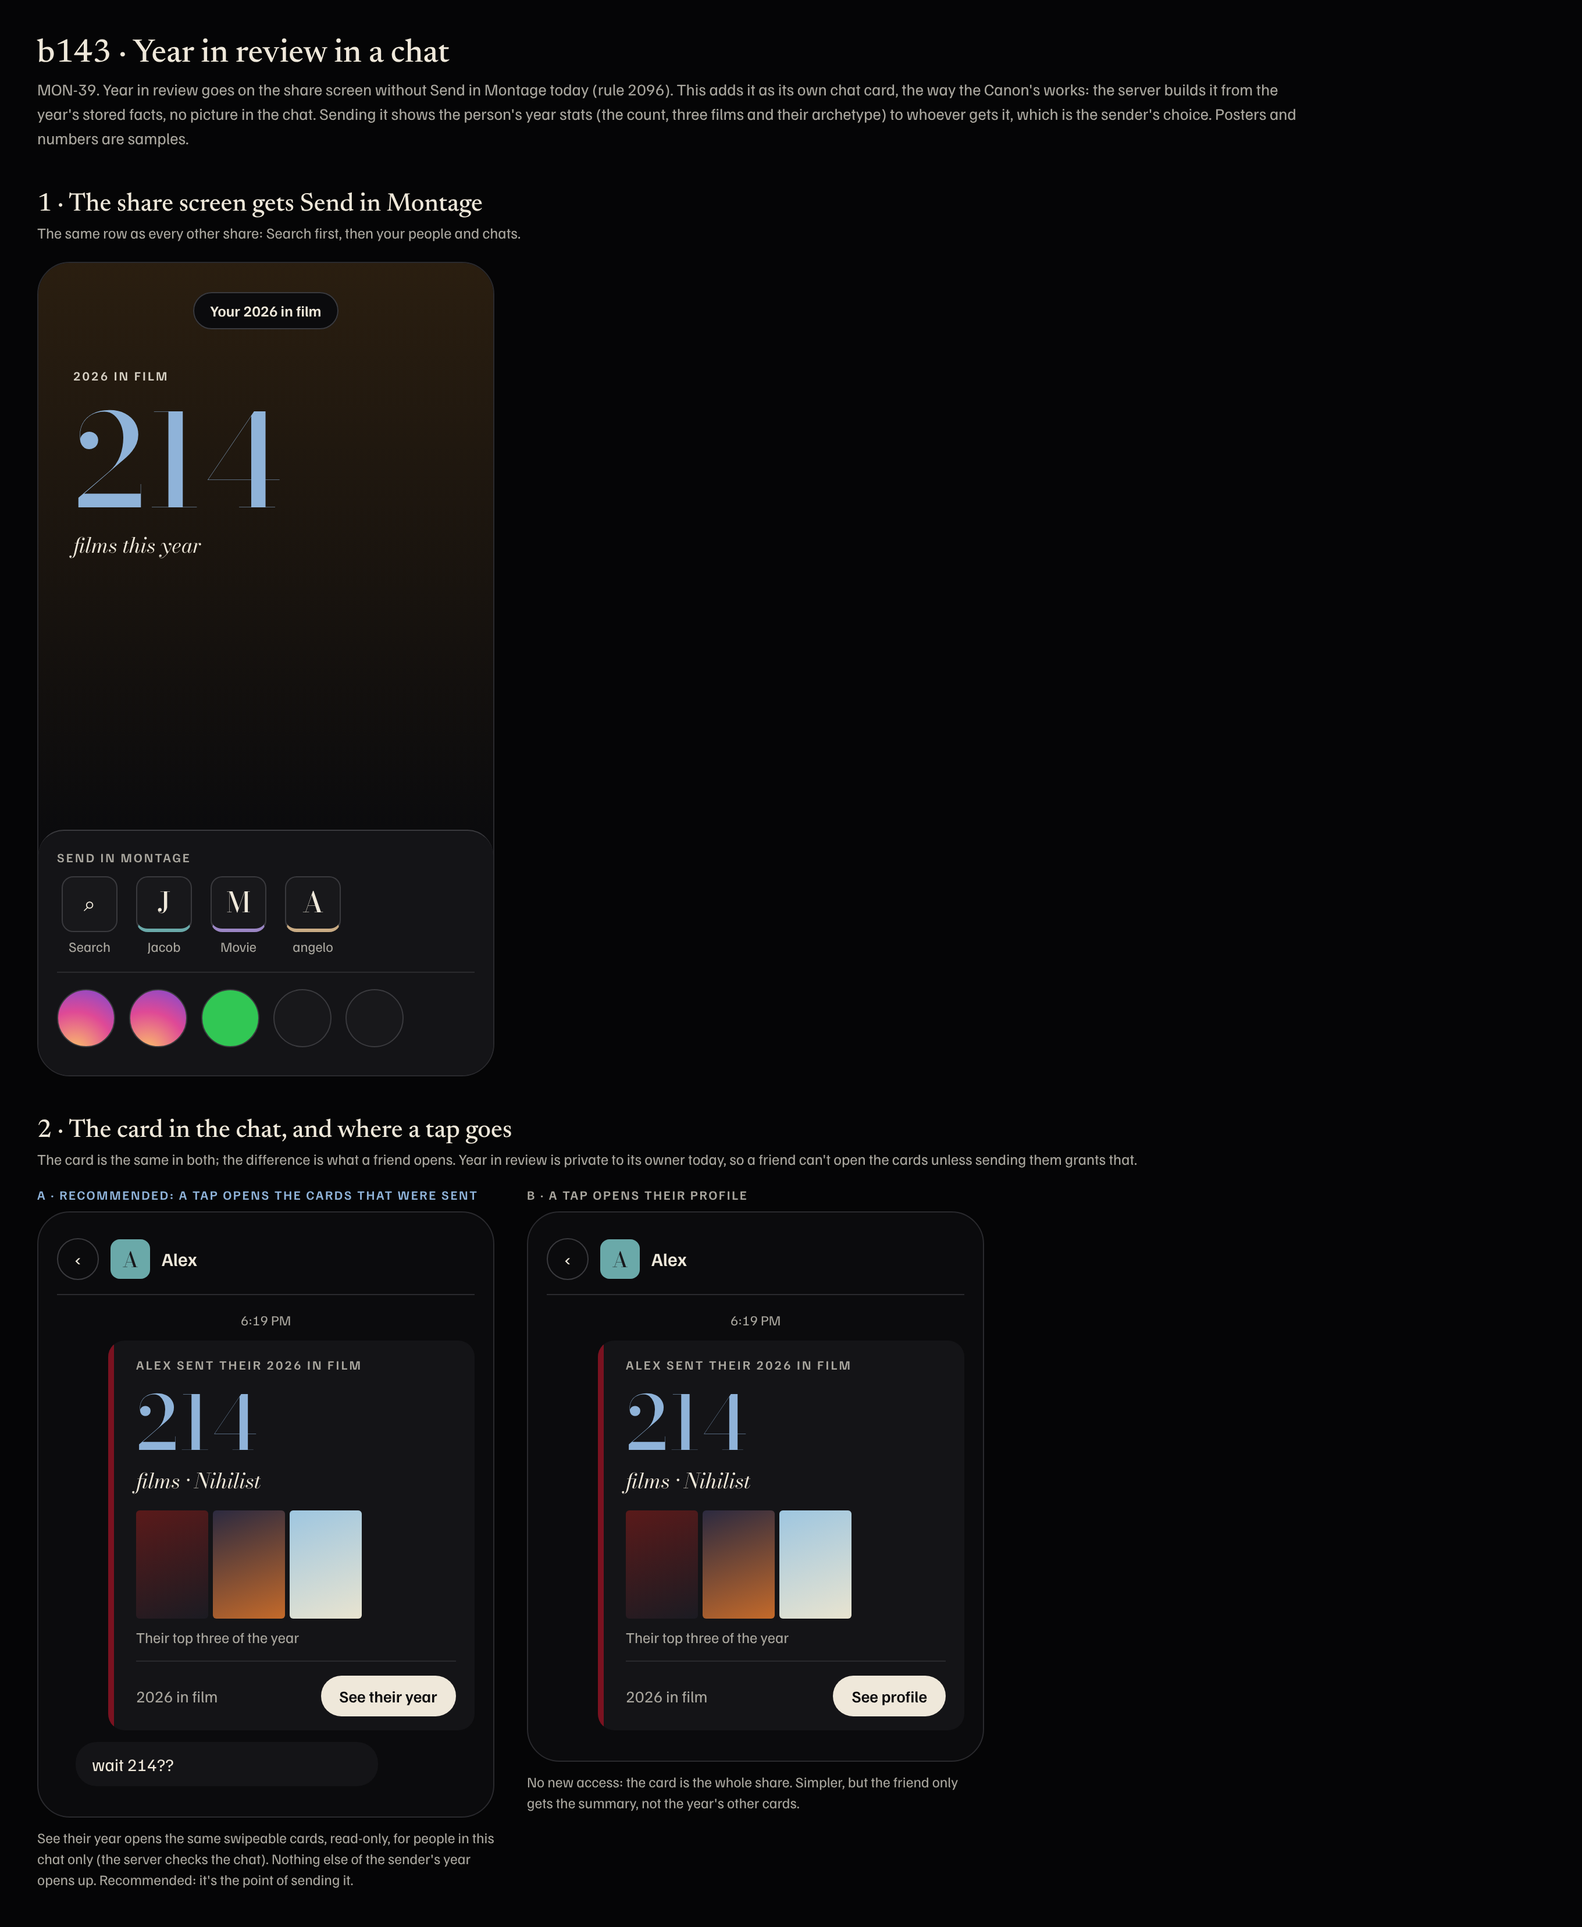
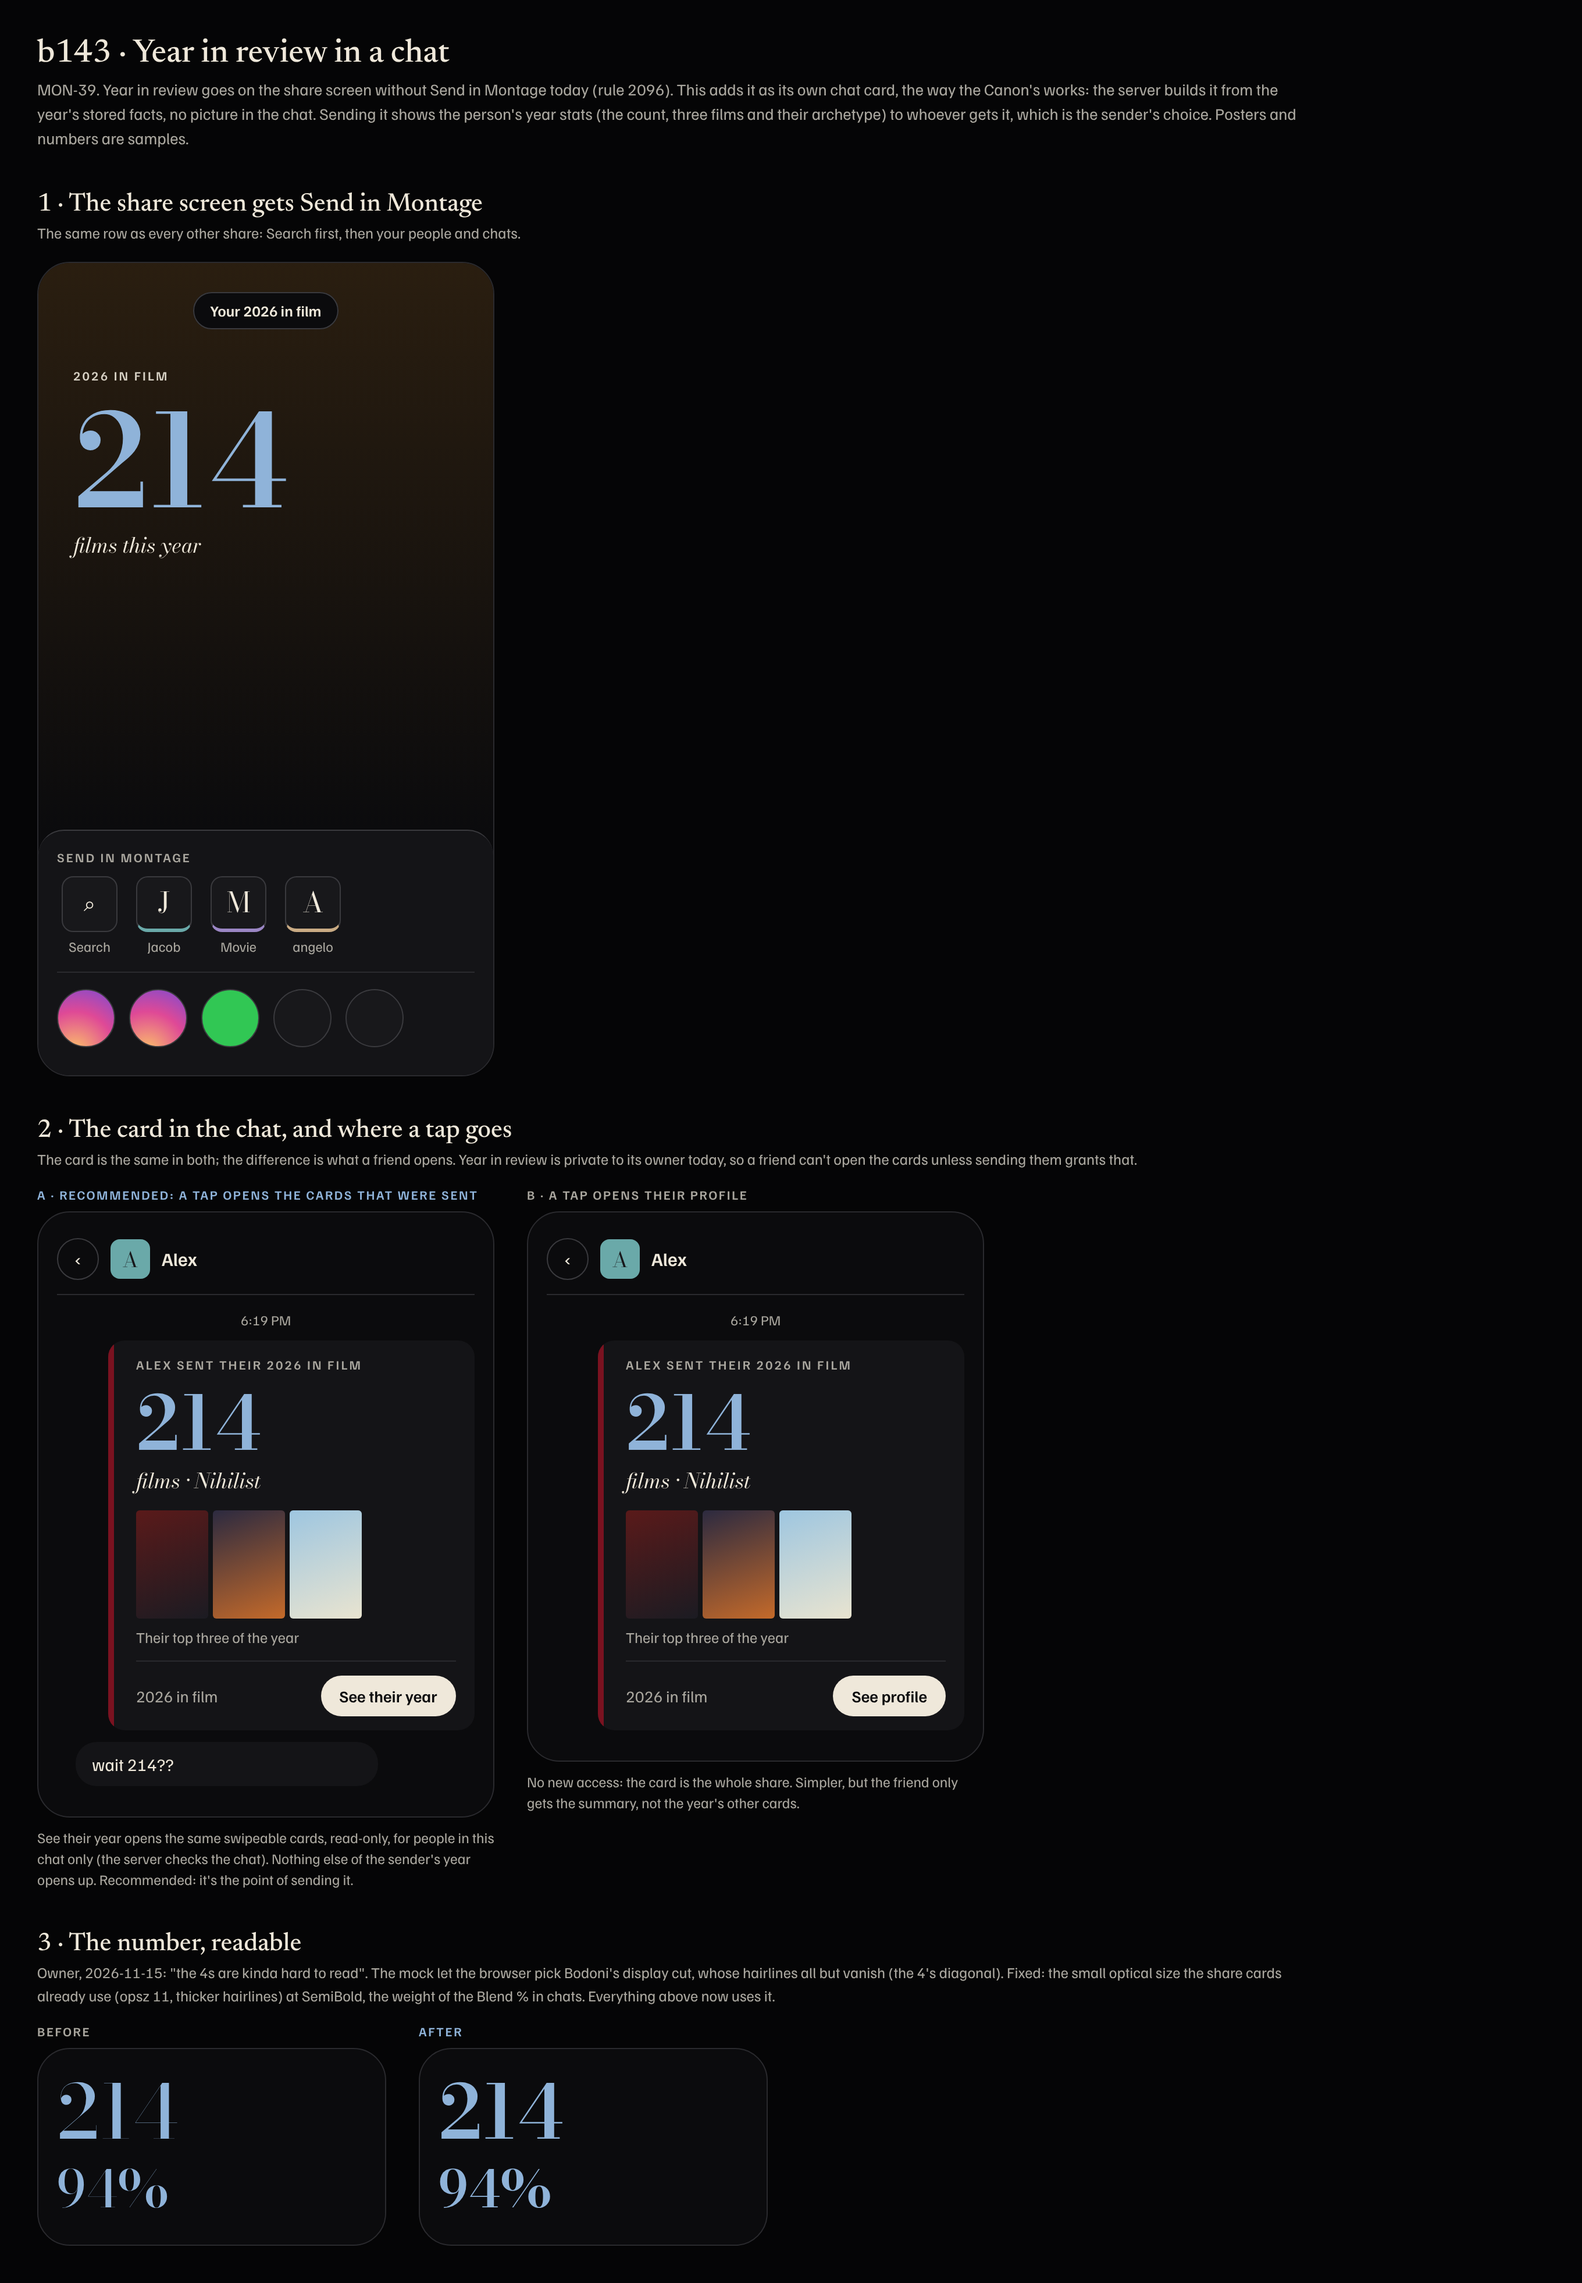
b143: the number in Bodoni's small optical size at SemiBold, readable 4s (owner) (mock)
Claude-Session: https://claude.ai/code/session_013EiGcTiAtiraHb8fMDXQqd

diff --git a/mockups/journeys/b143-year-chat-card.html b/mockups/journeys/b143-year-chat-card.html
@@ -1,6 +1,6 @@
 <!doctype html>
 <html lang="en"><head><meta charset="utf-8"><title>b143 year chat card</title>
-<link href="https://fonts.googleapis.com/css2?family=Newsreader:ital,opsz,wght@0,6..72,400;0,6..72,500;1,6..72,400&family=Familjen+Grotesk:wght@400;500;600&family=Bodoni+Moda:ital,opsz,wght@0,6..96,500;1,6..96,400&display=swap" rel="stylesheet">
+<link href="https://fonts.googleapis.com/css2?family=Newsreader:ital,opsz,wght@0,6..72,400;0,6..72,500;1,6..72,400&family=Familjen+Grotesk:wght@400;500;600&family=Bodoni+Moda:ital,opsz,wght@0,6..96,400..700;1,6..96,400&display=swap" rel="stylesheet">
 <style>
 :root{--bg:#0b0b0d;--panel:#141417;--panel-2:#18181b;--line:#2a2a2e;--line-2:#3a3a3e;--ink:#efe8da;--muted:#a9a69e;--faint:#8a877f;--accent-2:#8fb3d9;--shadow:#7a1220;
 --serif:"Newsreader",Georgia,serif;--sans:"Familjen Grotesk",system-ui,sans-serif;--bodoni:"Bodoni Moda",Didot,serif}
@@ -23,7 +23,8 @@ h1{font:500 28px var(--serif);margin-bottom:6px}
 .cc{margin-left:44px;background:var(--panel);border-radius:14px;padding:14px 16px 12px 24px;position:relative;overflow:hidden}
 .cc::before{content:"";position:absolute;left:0;top:0;bottom:0;width:5px;background:var(--shadow)}
 .k{font:600 11px var(--sans);letter-spacing:.14em;text-transform:uppercase;color:var(--muted)}
-.big{font:500 64px/1 var(--bodoni);color:var(--accent-2);margin-top:12px}
+.big{font:600 64px/1 var(--bodoni);font-variation-settings:"opsz" 11;color:var(--accent-2);margin-top:12px}
+.big.old{font-weight:500;font-variation-settings:normal}
 .sub{font:italic 400 18px var(--bodoni);margin-top:4px}
 .ps{display:flex;gap:4px;margin-top:12px}.ps div{width:62px;height:93px;border-radius:3px}
 .meta{font-size:13px;color:var(--muted);margin-top:8px}
@@ -77,5 +78,11 @@ h1{font:500 28px var(--serif);margin-bottom:6px}
    <div class="meta">Their top three of the year</div>
    <div class="f">2026 in film<b>See profile</b></div></div>
  </div><div class="note">No new access: the card is the whole share. Simpler, but the friend only gets the summary, not the year's other cards.</div></div>
+</div>
+
+<div class="sec">3 · The number, readable<small>Owner, 2026-11-15: "the 4s are kinda hard to read". The mock let the browser pick Bodoni's display cut, whose hairlines all but vanish (the 4's diagonal). Fixed: the small optical size the share cards already use (opsz 11, thicker hairlines) at SemiBold, the weight of the Blend % in chats. Everything above now uses it.</small></div>
+<div class="row">
+ <div><div class="cap">Before</div><div class="chat" style="width:300px"><div class="big old" style="margin-top:0">214</div><div class="big old" style="font-size:44px">94%</div></div></div>
+ <div><div class="cap rec">After</div><div class="chat" style="width:300px"><div class="big" style="margin-top:0">214</div><div class="big" style="font-size:44px">94%</div></div></div>
 </div>
 </body></html>
